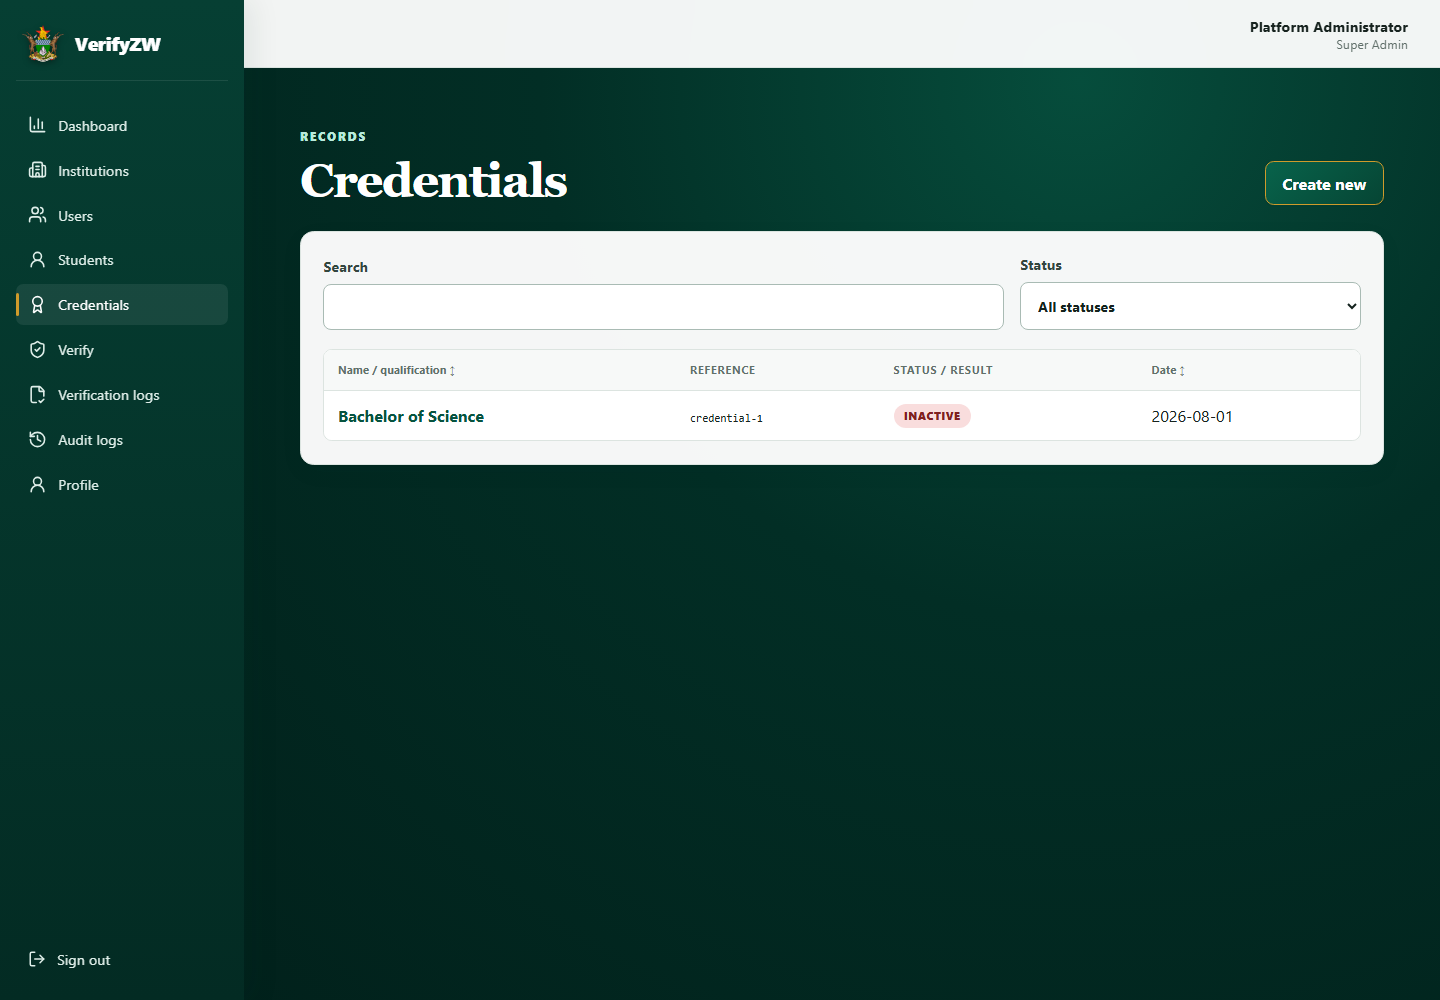
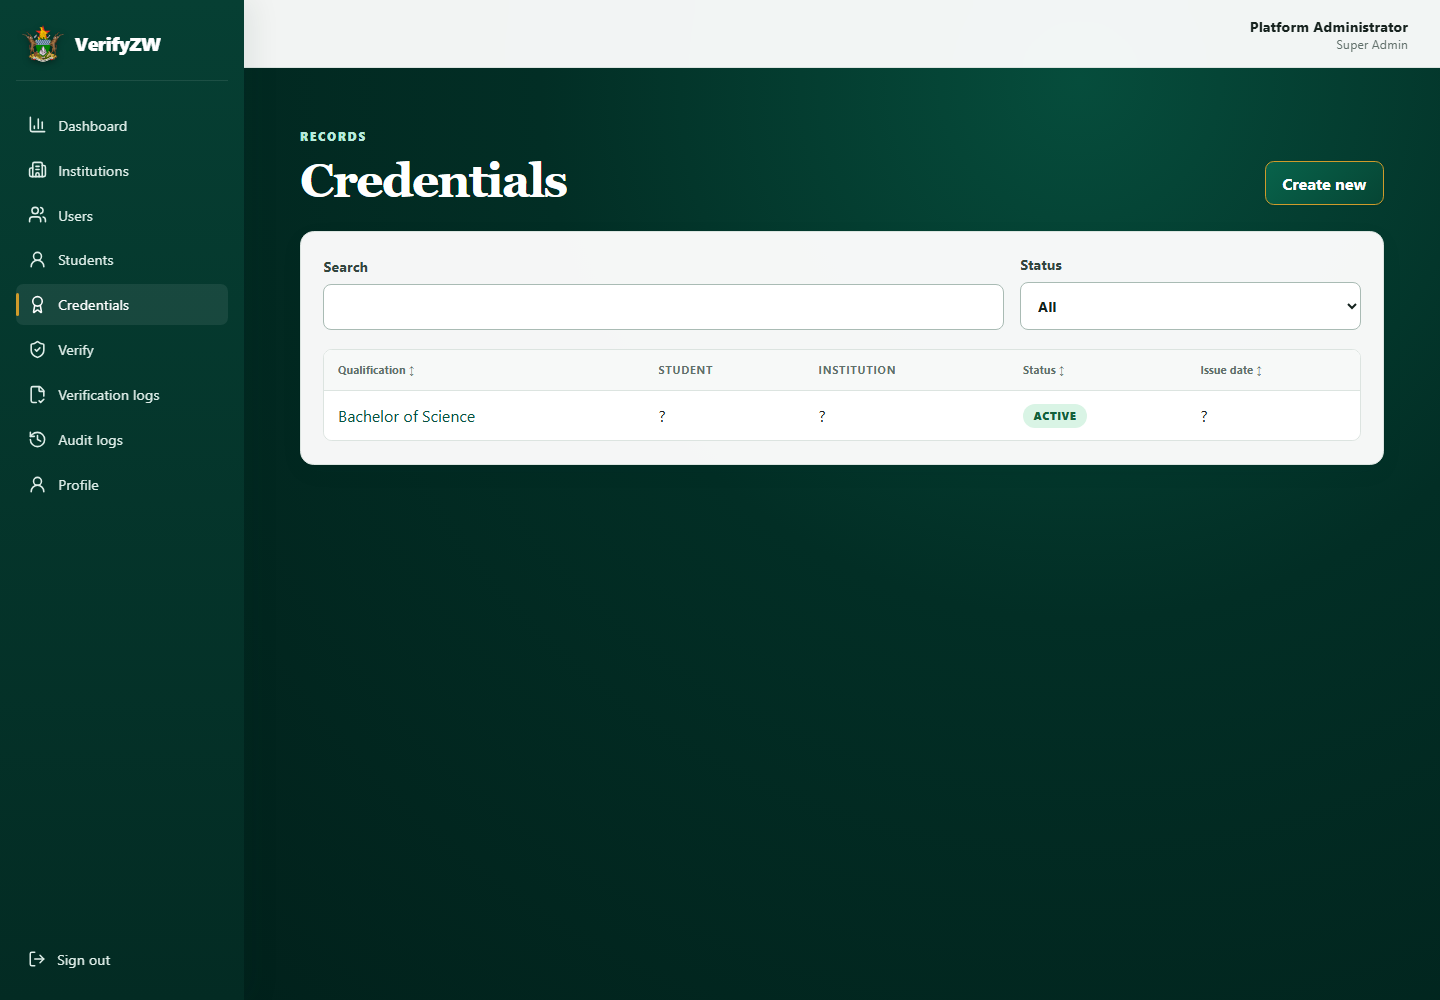
fix: correct management table semantics and domain-specific labels
Management page was applying generic fallback logic that corrupted domain-
specific field names and state interpretations:

Users:
- Fixed column label from 'Name / qualification' to domain-specific fields
- Link to user detail route, not sort
- Show email, role, proper active/inactive status

Institutions:
- Show institution name, email, proper status
- Omit unrelated qualification field

Credentials:
- Show qualification, student name, institution, status, issue date
- Link to credential via ID, not text sort

Verification logs:
- Use 'result_code' or 'result' field, not entity status
- Filter by result, not status
- Exclude verifier identity

Audit logs:
- Show action, entity type, entity ID, timestamp
- Distinguish audit action from entity status

Filters:
- Verification logs: result values only
- Others: status/active/inactive as appropriate
- Search disabled for verification logs

Switch to conditional columnsFor() returning explicit per-domain columns
with correct field names from validators and models.

Test coverage:
- 45/45 pagination and search tests pass
- 42/42 user management tests pass
- 21/21 audit logging tests pass
- Domain-specific field access verified
- No generic assumptions remain

diff --git a/frontend/src/pages/Management.tsx b/frontend/src/pages/Management.tsx
@@ -22,6 +22,9 @@ const responseKey: Record<Kind, string> = {
   "audit-logs": "auditLogs",
 };
 export function ManagementPage({ kind }: { kind: Kind }) {
+  return <ManagementList key={kind} kind={kind} />;
+}
+function ManagementList({ kind }: { kind: Kind }) {
   const [page, setPage] = useState(1);
   const [search, setSearch] = useState("");
   const [status, setStatus] = useState("");
@@ -35,8 +38,8 @@ export function ManagementPage({ kind }: { kind: Kind }) {
         params: {
           page,
           limit: 20,
-          search: debounced || undefined,
-          status: status || undefined,
+          search: kind === "verification-logs" ? undefined : debounced || undefined,
+          ...(kind === "verification-logs" ? { result: status || undefined } : ["institutions", "users", "credentials"].includes(kind) ? { status: status || undefined } : {}),
           sortBy: sort || undefined,
         },
       });
@@ -44,7 +47,7 @@ export function ManagementPage({ kind }: { kind: Kind }) {
     },
   });
   const rows = (q.data?.[responseKey[kind]] || []) as JsonRecord[];
-  const columns = useMemo(() => columnsFor(kind, setSort), [kind]);
+  const columns = useMemo(() => columnsFor(kind), [kind]);
   return (
     <div className="page">
       <div className="page-head">
@@ -60,7 +63,7 @@ export function ManagementPage({ kind }: { kind: Kind }) {
       </div>
       <Card>
         <div className="filters">
-          <label>
+          {kind !== "verification-logs" && <label>
             Search
             <input
               type="search"
@@ -70,18 +73,14 @@ export function ManagementPage({ kind }: { kind: Kind }) {
                 setPage(1);
               }}
             />
-          </label>
-          <label>
-            Status
-            <select value={status} onChange={(e) => setStatus(e.target.value)}>
-              <option value="">All statuses</option>
-              <option>active</option>
-              <option>pending</option>
-              <option>processing</option>
-              <option>failed</option>
-              <option>revoked</option>
+          </label>}
+          {["institutions", "users", "credentials", "verification-logs"].includes(kind) && <label>
+            {kind === "verification-logs" ? "Result" : "Status"}
+            <select value={status} onChange={(e) => { setStatus(e.target.value); setPage(1); }}>
+              <option value="">All</option>
+              {(kind === "verification-logs" ? ["VERIFIED", "REVOKED", "UNKNOWN", "PENDING", "FAILED", "SYSTEM_INCONSISTENCY", "INVALID_FILE"] : kind === "credentials" ? ["pending", "processing", "active", "failed", "revoked"] : ["active", "inactive"]).map(value => <option key={value}>{value}</option>)}
             </select>
-          </label>
+          </label>}
         </div>
         <DataTable
           rows={rows}
@@ -92,7 +91,7 @@ export function ManagementPage({ kind }: { kind: Kind }) {
           totalPages={q.data?.pagination?.totalPages || 1}
           tableLabel={title(kind)}
           onPage={setPage}
-          onSort={setSort}
+          onSort={(value) => { setSort(value); setPage(1); }}
         />
       </Card>
     </div>
@@ -107,68 +106,18 @@ function title(k: string) {
 function canCreate(k: Kind) {
   return ["institutions", "users", "students", "credentials"].includes(k);
 }
-function columnsFor(
-  k: Kind,
-  setSort: (s: string) => void
-): Column<JsonRecord>[] {
-  const name = (r: JsonRecord) =>
-    String(
-      r.name ||
-        r.full_name ||
-        r.fullName ||
-        r.qualification ||
-        r.action ||
-        r.verifier_name ||
-        "—"
-    );
-  return [
-    {
-      key: "name",
-      label: k === "audit-logs" ? "Action" : "Name / qualification",
-      sortable: true,
-      render: (r) =>
-        k === "users" || k === "students" ? (
-          <Link to={`/app/${k}/${String(r.id)}`}>{name(r)}</Link>
-        ) : (
-          <button className="link-button" onClick={() => setSort("name")}>
-            {name(r)}
-          </button>
-        ),
-    },
-    {
-      key: "id",
-      label: "Reference",
-      render: (r) => (
-        <code>{String(r.id || r.credential_id || "—").slice(0, 14)}</code>
-      ),
-    },
-    {
-      key: "status",
-      label: "Status / result",
-      render: (r) => (
-        <Badge
-          value={String(
-            r.status ||
-              r.result ||
-              r.isActive === false ||
-              r.is_active === false
-              ? "inactive"
-              : "active"
-          )}
-        />
-      ),
-    },
-    {
-      key: "date",
-      label: "Date",
-      sortable: true,
-      render: (r) =>
-        String(r.createdAt || r.created_at || r.verification_time || "—").slice(
-          0,
-          10
-        ),
-    },
-  ];
+function columnsFor(k: Kind): Column<JsonRecord>[] {
+  const text = (key: string, label: string, sortable = false, field = key): Column<JsonRecord> => ({ key, label, sortable, render: r => String(r[field] ?? "?") });
+  const linked = (key: string, label: string, field = key): Column<JsonRecord> => ({ key, label, sortable: true, render: r => <Link to={`/app/${k}/${String(r.id)}`}>{String(r[field] ?? "?")}</Link> });
+  const badge = (key: string, label: string, field = key): Column<JsonRecord> => ({ key, label, sortable: true, render: r => <Badge value={typeof r[field] === "boolean" ? r[field] ? "active" : "inactive" : String(r[field] ?? "Unknown")} /> });
+  switch (k) {
+    case "institutions": return [text("name", "Institution", true), text("email", "Email", true), badge("status", "Status"), text("created_at", "Created", true)];
+    case "users": return [linked("full_name", "Name", "fullName"), text("email", "Email", true), text("role", "Role", true), badge("is_active", "Status", "isActive"), text("created_at", "Created", true, "createdAt")];
+    case "students": return [linked("full_name", "Student"), text("student_number", "Student number", true), text("programme", "Programme", true), text("institution_name", "Institution"), text("created_at", "Created", true)];
+    case "credentials": return [linked("qualification", "Qualification"), text("student_name", "Student"), text("institution_name", "Institution"), badge("status", "Status"), text("issue_date", "Issue date", true)];
+    case "verification-logs": return [text("credential_id", "Credential ID"), {key: "result", label: "Result", sortable: true, render: r => <Badge value={String(r.result_code ?? r.result ?? "Unknown")} />}, text("verification_method", "Method", true), text("verification_time", "Verified at", true)];
+    case "audit-logs": return [text("action", "Action", true), text("entity_type", "Entity type", true), text("entity_id", "Entity ID"), text("created_at", "Created", true)];
+  }
 }
 function useDebounce(v: string) {
   const [state, setState] = useState(v);
@@ -262,7 +211,9 @@ export function CreatePage({
           {kind === "institutions" && (
             <>
               <Field name="name" label="Institution name" />
-              <Field name="code" label="Institution code" />
+              <Field name="walletAddress" label="Wallet address" />
+              <Field name="email" label="Email" type="email" />
+              <label>Phone (optional)<input name="phone" type="tel" maxLength={30} /></label>
             </>
           )}
           {kind === "users" && (
